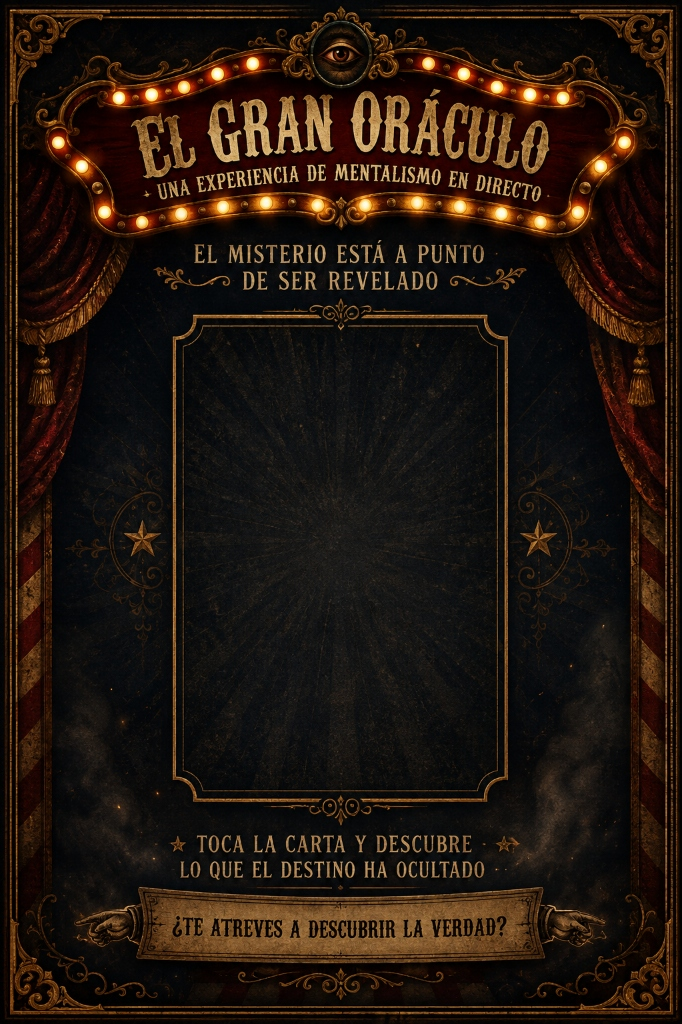
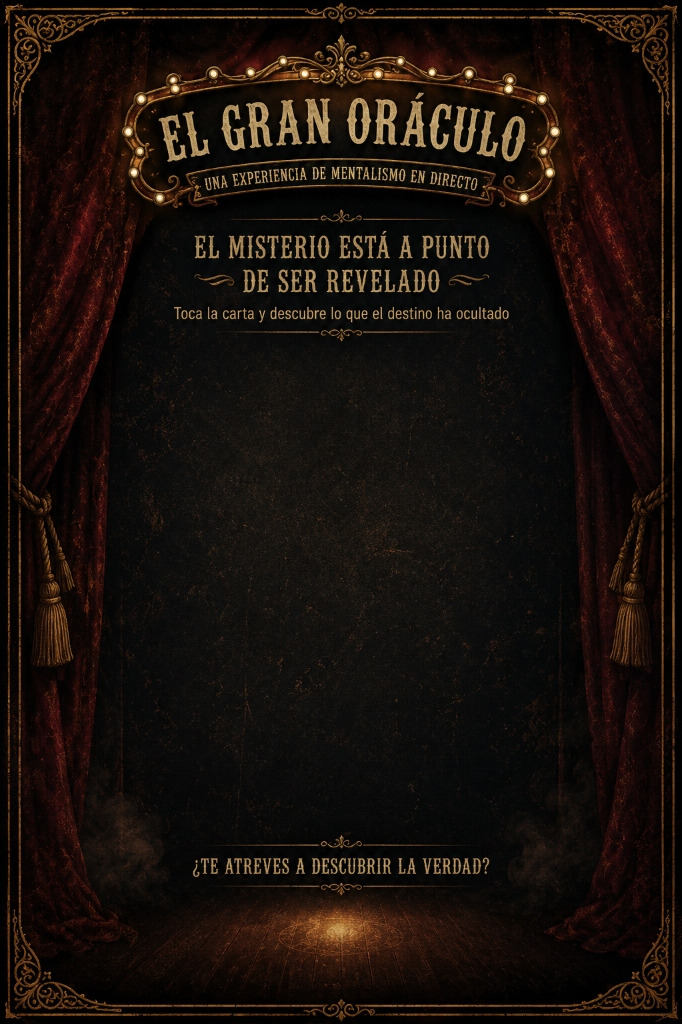
Actualizar cartel de fondo del escenario y colocar indicador secreto de carta en la esquina inferior izquierda con bajo contraste

diff --git a/app.py b/app.py
@@ -411,9 +411,9 @@ def visualizar_carta(
             .card-scene {{
                 perspective: 1200px;
                 -webkit-perspective: 1200px;
-                width: 45.7%;
+                width: 44.5%;
                 aspect-ratio: 63.5 / 88.9;
-                margin-top: 4.1%;
+                margin-top: 8.5%;
                 position: relative;
                 cursor: pointer;
                 z-index: 10;
@@ -479,14 +479,14 @@ def visualizar_carta(
                 pointer-events: none;
             }}
 
-            /* Indicador Secreto Discreto solo para el Mago en Esquina */
+            /* Indicador Secreto Discreto solo para el Mago en Esquina Inferior Izquierda con Bajo Contraste */
             .secret-peek {{
                 position: fixed;
-                bottom: 8px;
-                right: 12px;
+                bottom: 12px;
+                left: 16px;
                 font-family: monospace;
-                font-size: 10px;
-                color: rgba(212, 175, 55, 0.2);
+                font-size: 11px;
+                color: rgba(180, 140, 60, 0.22);
                 letter-spacing: 1px;
                 user-select: none;
                 pointer-events: none;
